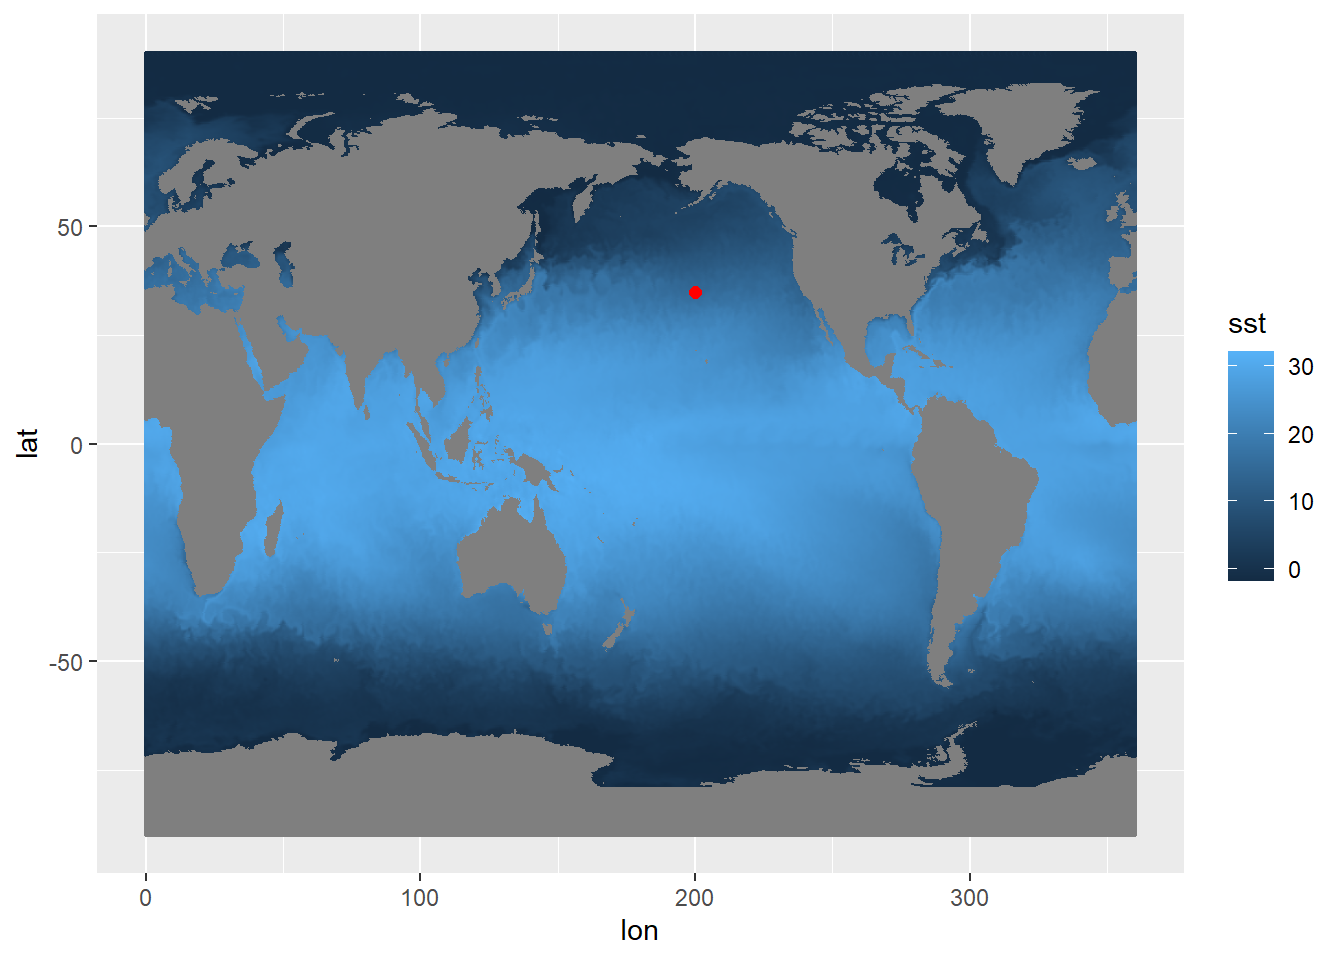
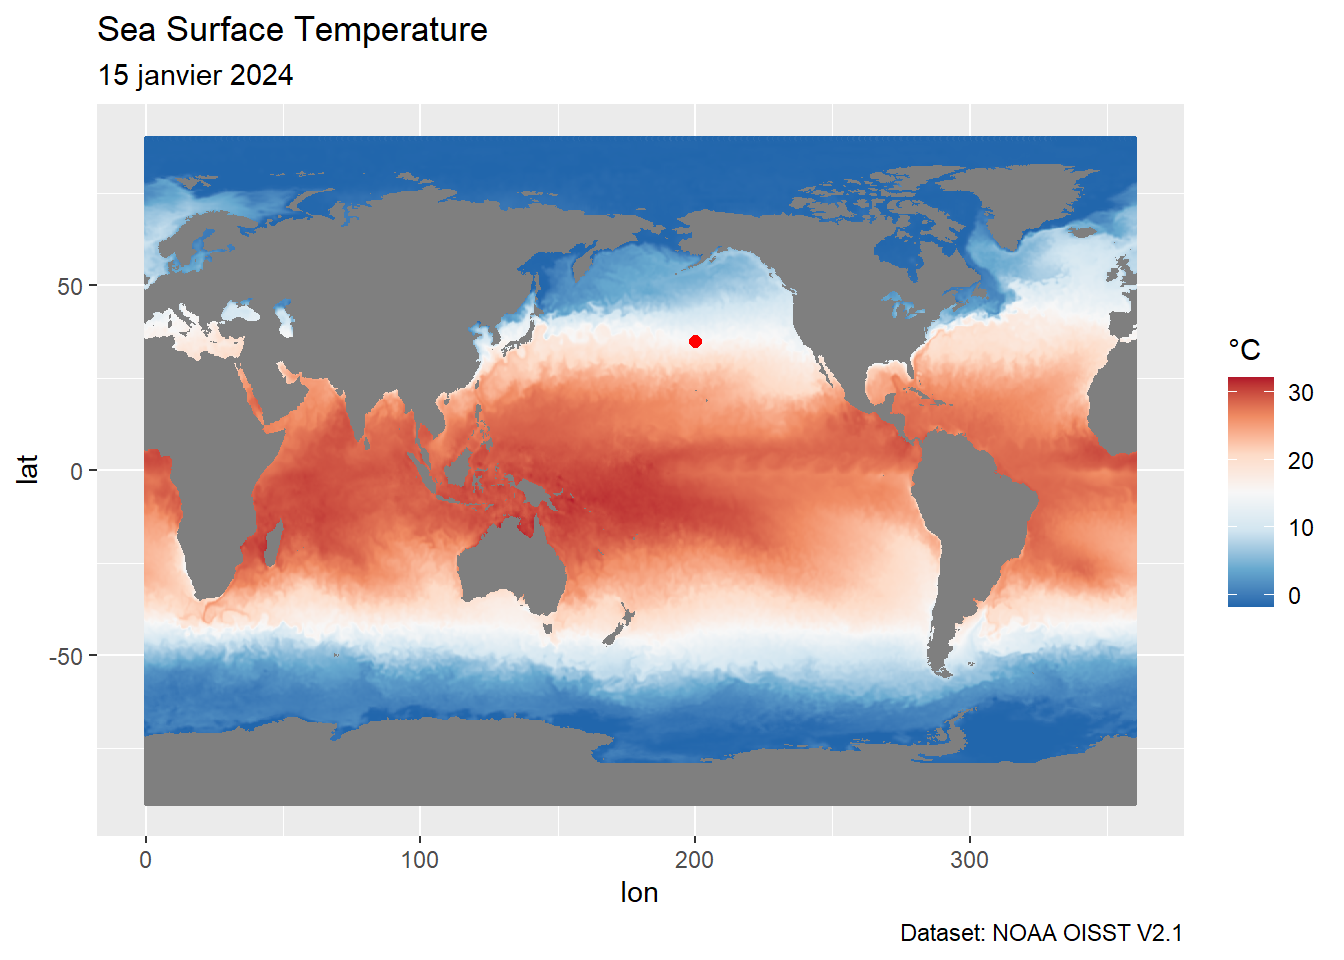
center world map around greenwich meridian

diff --git a/docs/sst_example.html b/docs/sst_example.html
@@ -203,7 +203,8 @@ pre > code.sourceCode > span > a:first-child::before { text-decoration: underlin
 <div class="sourceCode" id="cb1"><pre class="downlit sourceCode r code-with-copy"><code class="sourceCode R"><span><span class="va">libs</span> <span class="op">&lt;-</span> <span class="fu"><a href="https://rdrr.io/r/base/c.html">c</a></span><span class="op">(</span></span>
 <span>  <span class="st">"ncdf4"</span>,</span>
 <span>  <span class="st">"tidyverse"</span>,</span>
-<span>  <span class="st">"terra"</span></span>
+<span>  <span class="st">"terra"</span>,</span>
+<span>  <span class="st">"sf"</span></span>
 <span><span class="op">)</span></span>
 <span></span>
 <span><span class="co">#install missing libraries</span></span>
@@ -501,34 +502,67 @@ $value
 <span class="header-section-number">3.3</span> Affichage de la carte des données sst</h2>
 <p>Avec positionnement en rouge du point de test donné en exemple :</p>
 <div class="cell">
-<div class="sourceCode" id="cb26"><pre class="downlit sourceCode r code-with-copy"><code class="sourceCode R"><span><span class="va">df_sst</span> <span class="op">|&gt;</span> </span>
+<div class="sourceCode" id="cb26"><pre class="downlit sourceCode r code-with-copy"><code class="sourceCode R"><span><span class="co">#|label: plot_sst</span></span>
+<span><span class="co">#|fig-width: 11</span></span>
+<span><span class="co">#|fig-height: 8</span></span>
+<span></span>
+<span><span class="va">df_sst</span> <span class="op">|&gt;</span> </span>
 <span>  <span class="fu">ggplot</span><span class="op">(</span><span class="fu">aes</span><span class="op">(</span>x <span class="op">=</span> <span class="va">lon</span>, y <span class="op">=</span> <span class="va">lat</span>, color <span class="op">=</span> <span class="va">sst</span><span class="op">)</span><span class="op">)</span> <span class="op">+</span> </span>
 <span>  <span class="fu">geom_point</span><span class="op">(</span>size <span class="op">=</span> <span class="fl">0.5</span><span class="op">)</span> <span class="op">+</span></span>
+<span>  <span class="fu">scale_colour_distiller</span><span class="op">(</span>palette <span class="op">=</span> <span class="st">"RdBu"</span><span class="op">)</span> <span class="op">+</span></span>
 <span>  <span class="fu">geom_point</span><span class="op">(</span></span>
 <span>    data <span class="op">=</span> <span class="va">df_sst_800_500</span>, </span>
 <span>    <span class="fu">aes</span><span class="op">(</span>x <span class="op">=</span> <span class="va">lon</span>, y <span class="op">=</span> <span class="va">lat</span><span class="op">)</span>,</span>
 <span>    color <span class="op">=</span> <span class="st">"red"</span>,</span>
-<span>    size <span class="op">=</span> <span class="fl">2</span><span class="op">)</span></span></code><button title="Copy to Clipboard" class="code-copy-button"><i class="bi"></i></button></pre></div>
+<span>    size <span class="op">=</span> <span class="fl">2</span><span class="op">)</span> <span class="op">+</span></span>
+<span>  <span class="fu">labs</span><span class="op">(</span></span>
+<span>    title <span class="op">=</span> <span class="st">"Sea Surface Temperature"</span>,</span>
+<span>    subtitle <span class="op">=</span> <span class="st">"15 janvier 2024"</span>,</span>
+<span>    caption <span class="op">=</span> <span class="st">"Dataset: NOAA OISST V2.1"</span>,</span>
+<span>    color <span class="op">=</span> <span class="st">"°C"</span></span>
+<span>  <span class="op">)</span></span></code><button title="Copy to Clipboard" class="code-copy-button"><i class="bi"></i></button></pre></div>
 <div class="cell-output-display">
 <p><img src="sst_example_files/figure-html/unnamed-chunk-8-1.png" class="img-fluid" width="672"></p>
 </div>
 </div>
+<p>Si nous souhaitons centrer la carte sur le méridien de Greenwich, il est nécessaire de translater les longitudes.</p>
 <div class="cell">
-<div class="sourceCode" id="cb27"><pre class="downlit sourceCode r code-with-copy"><code class="sourceCode R"><span><span class="va">list_raster</span> <span class="op">&lt;-</span> <span class="fu">map</span><span class="op">(</span><span class="va">nc_var</span>, \<span class="op">(</span><span class="va">x</span><span class="op">)</span> <span class="fu">rast</span><span class="op">(</span><span class="fu"><a href="https://rdrr.io/r/base/t.html">t</a></span><span class="op">(</span><span class="fu"><a href="https://rdrr.io/r/base/get.html">get</a></span><span class="op">(</span><span class="va">x</span><span class="op">)</span><span class="op">)</span><span class="op">)</span><span class="op">)</span></span></code><button title="Copy to Clipboard" class="code-copy-button"><i class="bi"></i></button></pre></div>
+<div class="sourceCode" id="cb27"><pre class="downlit sourceCode r code-with-copy"><code class="sourceCode R"><span><span class="co">#|label: plot_sst_greenwich</span></span>
+<span><span class="co">#|fig-width: 11</span></span>
+<span><span class="co">#|fig-height: 8</span></span>
+<span></span>
+<span><span class="va">df_sst</span> <span class="op">|&gt;</span> </span>
+<span>  <span class="fu">mutate</span><span class="op">(</span>lon <span class="op">=</span> <span class="fu">if_else</span><span class="op">(</span><span class="va">lon</span> <span class="op">&gt;</span> <span class="fl">180</span>, <span class="va">lon</span> <span class="op">-</span> <span class="fl">360</span>, <span class="va">lon</span><span class="op">)</span><span class="op">)</span> <span class="op">|&gt;</span> </span>
+<span>  <span class="fu">ggplot</span><span class="op">(</span><span class="fu">aes</span><span class="op">(</span>x <span class="op">=</span> <span class="va">lon</span>, y <span class="op">=</span> <span class="va">lat</span>, color <span class="op">=</span> <span class="va">sst</span><span class="op">)</span><span class="op">)</span> <span class="op">+</span> </span>
+<span>  <span class="fu">geom_point</span><span class="op">(</span>size <span class="op">=</span> <span class="fl">0.5</span><span class="op">)</span> <span class="op">+</span></span>
+<span>  <span class="fu">scale_colour_distiller</span><span class="op">(</span>palette <span class="op">=</span> <span class="st">"RdBu"</span><span class="op">)</span> <span class="op">+</span></span>
+<span>  <span class="fu">labs</span><span class="op">(</span></span>
+<span>    title <span class="op">=</span> <span class="st">"Sea Surface Temperature"</span>,</span>
+<span>    subtitle <span class="op">=</span> <span class="st">"15 janvier 2024"</span>,</span>
+<span>    caption <span class="op">=</span> <span class="st">"Dataset: NOAA OISST V2.1"</span>,</span>
+<span>    color <span class="op">=</span> <span class="st">"°C"</span></span>
+<span>  <span class="op">)</span> <span class="op">+</span></span>
+<span>  <span class="fu">theme_bw</span><span class="op">(</span><span class="op">)</span></span></code><button title="Copy to Clipboard" class="code-copy-button"><i class="bi"></i></button></pre></div>
+<div class="cell-output-display">
+<p><img src="sst_example_files/figure-html/unnamed-chunk-9-1.png" class="img-fluid" width="672"></p>
+</div>
 </div>
 <div class="cell">
-<div class="sourceCode" id="cb28"><pre class="downlit sourceCode r code-with-copy"><code class="sourceCode R"><span><span class="fu">walk</span><span class="op">(</span><span class="va">list_raster</span>, \<span class="op">(</span><span class="va">x</span><span class="op">)</span> <span class="fu"><a href="https://rdrr.io/r/graphics/plot.default.html">plot</a></span><span class="op">(</span><span class="fu">flip</span><span class="op">(</span><span class="va">x</span>, direction <span class="op">=</span> <span class="st">"vertical"</span><span class="op">)</span><span class="op">)</span><span class="op">)</span></span></code><button title="Copy to Clipboard" class="code-copy-button"><i class="bi"></i></button></pre></div>
+<div class="sourceCode" id="cb28"><pre class="downlit sourceCode r code-with-copy"><code class="sourceCode R"><span><span class="va">list_raster</span> <span class="op">&lt;-</span> <span class="fu">map</span><span class="op">(</span><span class="va">nc_var</span>, \<span class="op">(</span><span class="va">x</span><span class="op">)</span> <span class="fu">rast</span><span class="op">(</span><span class="fu"><a href="https://rdrr.io/r/base/t.html">t</a></span><span class="op">(</span><span class="fu"><a href="https://rdrr.io/r/base/get.html">get</a></span><span class="op">(</span><span class="va">x</span><span class="op">)</span><span class="op">)</span><span class="op">)</span><span class="op">)</span></span></code><button title="Copy to Clipboard" class="code-copy-button"><i class="bi"></i></button></pre></div>
+</div>
+<div class="cell">
+<div class="sourceCode" id="cb29"><pre class="downlit sourceCode r code-with-copy"><code class="sourceCode R"><span><span class="fu">walk</span><span class="op">(</span><span class="va">list_raster</span>, \<span class="op">(</span><span class="va">x</span><span class="op">)</span> <span class="fu"><a href="https://rdrr.io/r/graphics/plot.default.html">plot</a></span><span class="op">(</span><span class="fu">flip</span><span class="op">(</span><span class="va">x</span>, direction <span class="op">=</span> <span class="st">"vertical"</span><span class="op">)</span><span class="op">)</span><span class="op">)</span></span></code><button title="Copy to Clipboard" class="code-copy-button"><i class="bi"></i></button></pre></div>
 <div class="cell-output-display">
-<p><img src="sst_example_files/figure-html/unnamed-chunk-10-1.png" class="img-fluid" width="672"></p>
+<p><img src="sst_example_files/figure-html/unnamed-chunk-11-1.png" class="img-fluid" width="672"></p>
 </div>
 <div class="cell-output-display">
-<p><img src="sst_example_files/figure-html/unnamed-chunk-10-2.png" class="img-fluid" width="672"></p>
+<p><img src="sst_example_files/figure-html/unnamed-chunk-11-2.png" class="img-fluid" width="672"></p>
 </div>
 <div class="cell-output-display">
-<p><img src="sst_example_files/figure-html/unnamed-chunk-10-3.png" class="img-fluid" width="672"></p>
+<p><img src="sst_example_files/figure-html/unnamed-chunk-11-3.png" class="img-fluid" width="672"></p>
 </div>
 <div class="cell-output-display">
-<p><img src="sst_example_files/figure-html/unnamed-chunk-10-4.png" class="img-fluid" width="672"></p>
+<p><img src="sst_example_files/figure-html/unnamed-chunk-11-4.png" class="img-fluid" width="672"></p>
 </div>
 </div>
 

diff --git a/docs/sst_dl.html b/docs/sst_dl.html
@@ -284,10 +284,37 @@ pre > code.sourceCode > span > a:first-child::before { text-decoration: underlin
 <pre><code>[1] "number of sst files to consider : 15477"</code></pre>
 </div>
 </div>
+<p>Pour information, voici le dossier des données relatif au dernier mois en cours :</p>
+<div class="cell">
+<div class="sourceCode" id="cb6"><pre class="downlit sourceCode r code-with-copy"><code class="sourceCode R"><span><span class="fu">httr</span><span class="fu">::</span><span class="fu"><a href="https://httr.r-lib.org/reference/GET.html">GET</a></span><span class="op">(</span></span>
+<span>  <span class="fu"><a href="https://rdrr.io/r/base/paste.html">paste0</a></span><span class="op">(</span></span>
+<span>    <span class="st">"https://www.ncei.noaa.gov/data/sea-surface-temperature-optimum-interpolation/v2.1/access/avhrr/"</span>, </span>
+<span>    <span class="fu">yyyymm</span><span class="op">(</span><span class="fu"><a href="https://rdrr.io/r/base/Sys.time.html">Sys.Date</a></span><span class="op">(</span><span class="op">)</span><span class="op">)</span></span>
+<span>  <span class="op">)</span></span>
+<span><span class="op">)</span></span></code><button title="Copy to Clipboard" class="code-copy-button"><i class="bi"></i></button></pre></div>
+<div class="cell-output cell-output-stdout">
+<pre><code>Response [https://www.ncei.noaa.gov/data/sea-surface-temperature-optimum-interpolation/v2.1/access/avhrr/202401/]
+  Date: 2024-01-31 10:10
+  Status: 200
+  Content-Type: text/html;charset=UTF-8
+  Size: 6.37 kB
+&lt;!DOCTYPE HTML PUBLIC "-//W3C//DTD HTML 3.2 Final//EN"&gt;
+&lt;html&gt;
+ &lt;head&gt;
+  &lt;title&gt;Index of /data/sea-surface-temperature-optimum-interpolation/v2.1/ac...
+ &lt;/head&gt;
+ &lt;body&gt;
+&lt;h1&gt;Index of /data/sea-surface-temperature-optimum-interpolation/v2.1/access/...
+  &lt;table&gt;
+   &lt;tr&gt;&lt;th&gt;&lt;a href="?C=N;O=D"&gt;Name&lt;/a&gt;&lt;/th&gt;&lt;th&gt;&lt;a href="?C=M;O=A"&gt;Last modifi...
+   &lt;tr&gt;&lt;th colspan="4"&gt;&lt;hr&gt;&lt;/th&gt;&lt;/tr&gt;
+...</code></pre>
+</div>
+</div>
 </section><section id="téléchargement-des-fichiers-de-données" class="level2" data-number="2.3"><h2 data-number="2.3" class="anchored" data-anchor-id="téléchargement-des-fichiers-de-données">
 <span class="header-section-number">2.3</span> Téléchargement des fichiers de données</h2>
 <div class="cell">
-<div class="sourceCode" id="cb6"><pre class="downlit sourceCode r code-with-copy"><code class="sourceCode R"><span><span class="va">seq_days</span> <span class="op">&lt;-</span> <span class="fu"><a href="https://rdrr.io/r/base/seq.html">seq</a></span><span class="op">(</span></span>
+<div class="sourceCode" id="cb8"><pre class="downlit sourceCode r code-with-copy"><code class="sourceCode R"><span><span class="va">seq_days</span> <span class="op">&lt;-</span> <span class="fu"><a href="https://rdrr.io/r/base/seq.html">seq</a></span><span class="op">(</span></span>
 <span>  <span class="va">start_date</span>,</span>
 <span>  <span class="va">last_valid_sst_date</span>,</span>
 <span>  by <span class="op">=</span> <span class="st">"days"</span></span>

diff --git a/docs/index.html b/docs/index.html
@@ -7,7 +7,7 @@
 <meta name="viewport" content="width=device-width, initial-scale=1.0, user-scalable=yes">
 
 <meta name="author" content="Alain CORVISIER">
-<meta name="dcterms.date" content="2024-01-30">
+<meta name="dcterms.date" content="2024-01-31">
 
 <title>Fichiers NetCDF</title>
 <style>
@@ -178,7 +178,7 @@ ul.task-list li input[type="checkbox"] {
     <div>
     <div class="quarto-title-meta-heading">Published</div>
     <div class="quarto-title-meta-contents">
-      <p class="date">January 30, 2024</p>
+      <p class="date">January 31, 2024</p>
     </div>
   </div>
   
